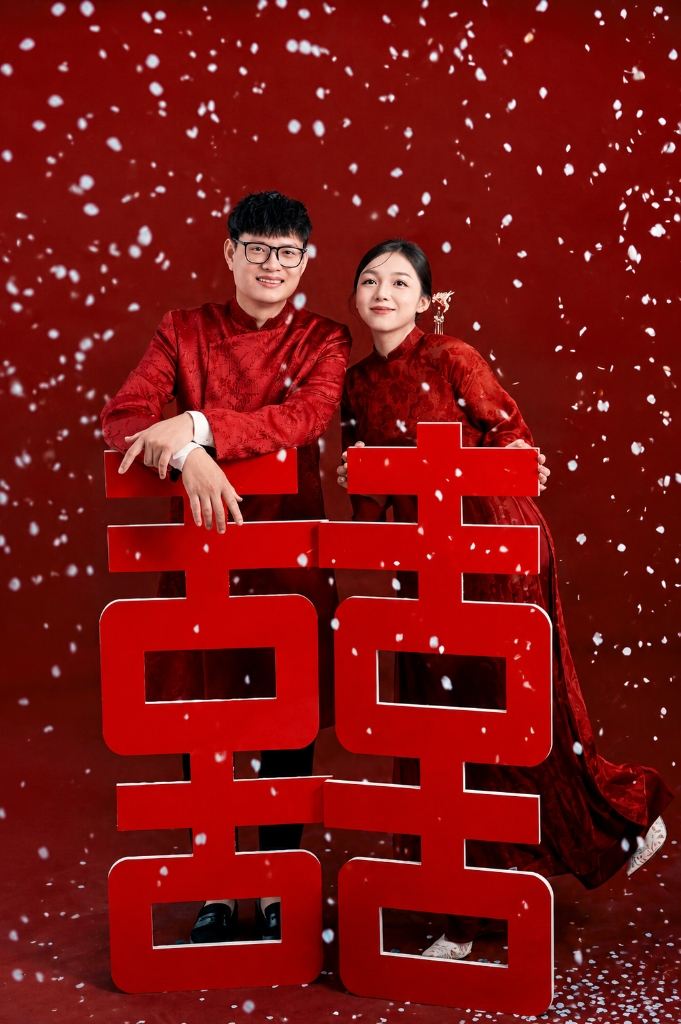
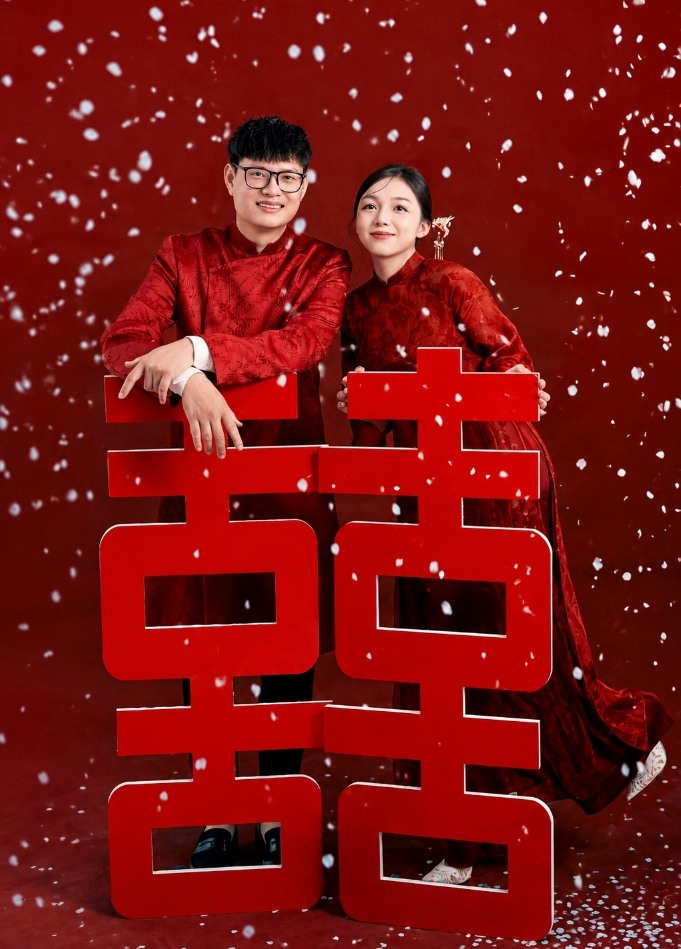
fix(hero): shift faces upwards above text to avoid overlapping on mobile

diff --git a/src/features/public/pages/HomePage.tsx b/src/features/public/pages/HomePage.tsx
@@ -33,7 +33,7 @@ export const HomePage: React.FC = () => {
           <img
             src={cms.hero.mobileCoverImageUrl || '/hero-mobile.jpg'}
             alt={cms.hero.headline}
-            className="w-full h-full object-cover object-[center_18%] sm:hidden"
+            className="w-full h-full object-cover object-[center_28%] sm:hidden"
           />
           {/* Desktop/Tablet Hero Image (Phong cảnh ngang cho máy tính) */}
           <img
@@ -42,11 +42,11 @@ export const HomePage: React.FC = () => {
             className="w-full h-full object-cover sm:object-[center_28%] hidden sm:block"
           />
           {/* Subtle neutral dark vignette for text readability - strictly NO red/burgundy tint */}
-          <div className="absolute inset-0 bg-gradient-to-t from-black/85 via-black/40 to-black/25" />
+          <div className="absolute inset-0 bg-gradient-to-t from-black/85 via-black/35 to-black/15 sm:to-black/25" />
         </div>
 
         {/* Centered, balanced Hero content with widened container (800–1000px) */}
-        <div className="relative z-10 w-full max-w-4xl lg:max-w-5xl mx-auto px-3 sm:px-6 py-8 sm:py-16 md:py-24 flex flex-col items-center text-center">
+        <div className="relative z-10 w-full max-w-4xl lg:max-w-5xl mx-auto px-3 sm:px-6 pt-14 pb-8 sm:py-16 md:py-24 flex flex-col items-center text-center">
           {/* 1. Tên thương hiệu - Dòng riêng nằm ngay bên trên tiêu đề */}
           <p className="font-playfair text-xs sm:text-sm md:text-base text-gold-foil font-semibold tracking-[0.15em] mb-2 sm:mb-3 select-none drop-shadow-sm">
             Nhà Có Tiệc
